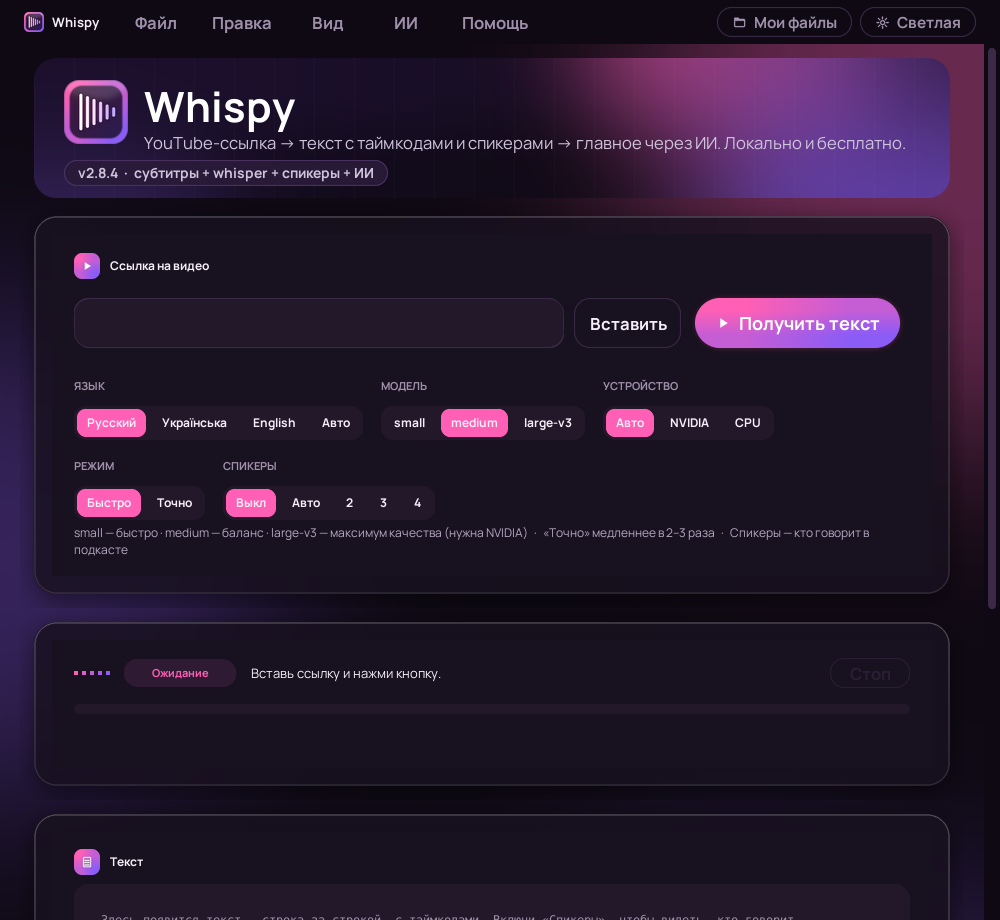
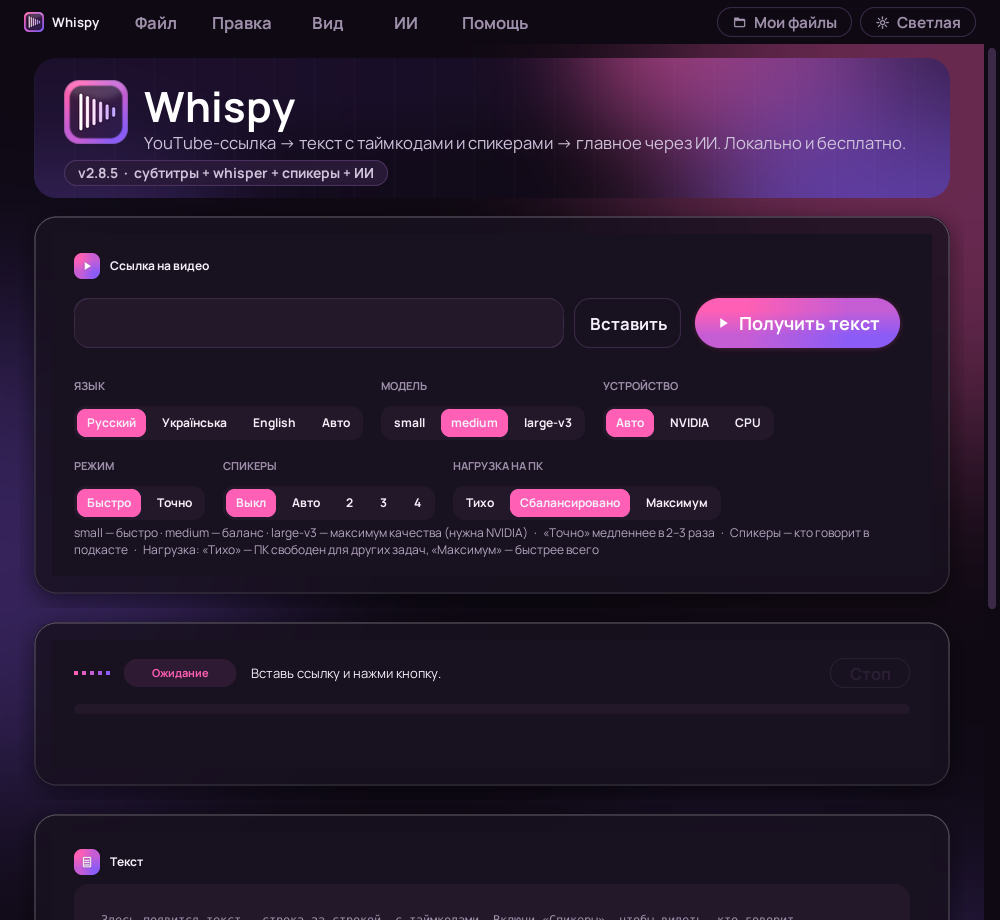
2.8.5: настройка нагрузки на ПК — потоки CPU и приоритет процесса на время распознавания
Claude-Session: https://claude.ai/code/session_01S2yJaERcb5RkzNkB8S1xRH

Changed region(s): [[0.155, 0.487, 0.682, 0.6087]]

diff --git a/app.py b/app.py
@@ -26,7 +26,7 @@ import urllib.request
 import tkinter as tk
 from tkinter import font as tkfont
 
-APP_VERSION = "2.8.4"
+APP_VERSION = "2.8.5"
 UPDATE_URL = "https://raw.githubusercontent.com/alegawhats-del/Whispy/main/version.json"
 GITHUB_URL = "https://github.com/alegawhats-del/Whispy"
 
@@ -144,6 +144,25 @@ LANGS = {"Русский": "ru", "Українська": "uk", "English": "en", 
 MODELS = ["small", "medium", "large-v3"]
 DEVICES = {"Авто": "auto", "NVIDIA": "gpu", "CPU": "cpu"}
 SPEED = {"Быстро": 1, "Точно": 5}
+# Нагрузка на ПК: (доля ядер, класс приоритета процесса Windows). Ниже приоритет — другие программы получают процессор первыми.
+LOAD = {"Тихо": (0.5, 0x00000040), "Сбалансировано": (0.85, 0x00004000), "Максимум": (1.0, 0x00000020)}  # IDLE / BELOW_NORMAL / NORMAL
+
+
+def cpu_threads_for(load):
+    frac = LOAD.get(load, LOAD["Сбалансировано"])[0]
+    n = os.cpu_count() or 4
+    return max(1, min(n, int(n * frac) if frac < 1 else n) - (1 if load == "Сбалансировано" else 0))
+
+
+def set_process_priority(load):
+    """Приоритет всего процесса на время работы: Windows отдаёт процессор другим задачам в первую очередь."""
+    if sys.platform != "win32":
+        return
+    try:
+        k32 = ctypes.windll.kernel32
+        k32.SetPriorityClass(k32.GetCurrentProcess(), LOAD.get(load, LOAD["Сбалансировано"])[1])
+    except Exception:
+        pass
 SPEAKERS = {"Выкл": -1, "Авто": 0, "2": 2, "3": 3, "4": 4}
 AI_TYPES = ["Тезисы", "Таблица", "Блок-схема", "Презентация", "Инфографика"]
 # Провайдеры ИИ: (протокол, адрес, модель по умолчанию, нужен ли ключ, ссылка где взять ключ)
@@ -1977,12 +1996,12 @@ class Cancelled(Exception):
 
 
 class Worker(threading.Thread):
-    def __init__(self, app, url, lang, model_name, device_choice, beam, speakers, gen):
+    def __init__(self, app, url, lang, model_name, device_choice, beam, speakers, gen, load="Сбалансировано"):
         super().__init__(daemon=True)
         self.app = app
         self.q = app.q
         self.url, self.lang, self.model_name, self.device_choice = url, lang, model_name, device_choice
-        self.beam, self.speakers, self.gen = beam, speakers, gen
+        self.beam, self.speakers, self.gen, self.load = beam, speakers, gen, load
         self.cancel = threading.Event()
         self.lines = []  # [start, end, text, (speaker)]
 
@@ -2058,6 +2077,7 @@ class Worker(threading.Thread):
             self.status("Ошибка", "Что-то пошло не так.")
             self.emit("error", text=human_error(e))
         finally:
+            set_process_priority("Максимум")  # вернуть обычный приоритет процессу
             if audio_path:
                 try:
                     os.remove(audio_path)
@@ -2193,7 +2213,8 @@ class Worker(threading.Thread):
         dev_name = "NVIDIA" if device == "cuda" else "CPU"
         self.status("Модель", f"Загружаю {self.model_name} ({dev_name})…" + ("" if model_cached(self.model_name) else " первый раз скачивается"))
         self.emit("indeterminate", on=True)
-        threads = max(1, (os.cpu_count() or 4))
+        threads = cpu_threads_for(self.load)
+        set_process_priority(self.load)
         try:
             model = WhisperModel(self.model_name, device=device, compute_type=compute, download_root=MODELS_DIR, cpu_threads=threads)
         except Exception as e:  # noqa: BLE001
@@ -2244,7 +2265,7 @@ class Worker(threading.Thread):
         import sherpa_onnx
         from faster_whisper.audio import decode_audio
         wav = decode_audio(audio_path, sampling_rate=16000)
-        cfg = sherpa_onnx.SpeakerEmbeddingExtractorConfig(model=SPK_MODEL_PATH, num_threads=max(1, (os.cpu_count() or 4) // 2), provider="cpu")
+        cfg = sherpa_onnx.SpeakerEmbeddingExtractorConfig(model=SPK_MODEL_PATH, num_threads=max(1, cpu_threads_for(self.load) // 2 + 1), provider="cpu")
         ext = sherpa_onnx.SpeakerEmbeddingExtractor(cfg)
         embs = []
         n = len(self.lines)
@@ -2621,9 +2642,10 @@ class App(ctk.CTk):
         self.model_var = tk.StringVar(value=self.settings.get("model", "medium"))
         self.device_var = tk.StringVar(value=self.settings.get("device", "Авто"))
         self.speed_var = tk.StringVar(value=self.settings.get("speed", "Быстро"))
+        self.load_var = tk.StringVar(value=self.settings.get("load", "Сбалансировано"))
         self.spk_var = tk.StringVar(value=self.settings.get("speakers", "Выкл"))
         self.ai_var = tk.StringVar(value=self.settings.get("ai_type", "Тезисы"))
-        for v in (self.lang_var, self.model_var, self.device_var, self.speed_var, self.spk_var, self.ai_var):
+        for v in (self.lang_var, self.model_var, self.device_var, self.speed_var, self.spk_var, self.ai_var, self.load_var):
             v.trace_add("write", lambda *a: self.persist())
         self._chips = {}
         self.ai_cfg = self.settings.get("ai", {}) or {}
@@ -2779,7 +2801,7 @@ class App(ctk.CTk):
 
     def persist(self):
         self.settings.update({"theme": self.theme, "lang": self.lang_var.get(), "model": self.model_var.get(),
-                              "device": self.device_var.get(), "speed": self.speed_var.get(), "speakers": self.spk_var.get(),
+                              "device": self.device_var.get(), "speed": self.speed_var.get(), "speakers": self.spk_var.get(), "load": self.load_var.get(),
                               "ai_type": self.ai_var.get(), "ai": self.ai_cfg})
         self.settings.pop("api_key", None)
         try:
@@ -2996,13 +3018,14 @@ class App(ctk.CTk):
         opts.grid(row=2, column=0, sticky="ew", padx=22, pady=(14, 4))
         for label, var, values in [("ЯЗЫК", self.lang_var, list(LANGS.keys())), ("МОДЕЛЬ", self.model_var, MODELS),
                                    ("УСТРОЙСТВО", self.device_var, list(DEVICES.keys())), ("РЕЖИМ", self.speed_var, list(SPEED.keys())),
-                                   ("СПИКЕРЫ", self.spk_var, list(SPEAKERS.keys()))]:
+                                   ("СПИКЕРЫ", self.spk_var, list(SPEAKERS.keys())), ("НАГРУЗКА НА ПК", self.load_var, list(LOAD.keys()))]:
             box = ctk.CTkFrame(opts, fg_color="transparent")
             self.label(box, label).pack(anchor="w", pady=(0, 6))
             self.seg(box, values, var).pack(anchor="w")
             opts.add(box)
         self.hint(card, "small — быстро · medium — баланс · large-v3 — максимум качества (нужна NVIDIA)   ·   "
-                        "«Точно» медленнее в 2–3 раза   ·   Спикеры — кто говорит в подкасте",
+                        "«Точно» медленнее в 2–3 раза   ·   Спикеры — кто говорит в подкасте   ·   "
+                        "Нагрузка: «Тихо» — ПК свободен для других задач, «Максимум» — быстрее всего",
                   row=3, column=0, sticky="ew", padx=22, pady=(0, 18))
 
         prog = self.page.add(GlassCard(self.page)).body
@@ -3280,7 +3303,7 @@ class App(ctk.CTk):
         self.status_lbl.configure(text="Подключаюсь к YouTube…", text_color=T["TEXT"])
         self.gen += 1
         self.worker = Worker(self, url, LANGS[self.lang_var.get()], self.model_var.get(), DEVICES[self.device_var.get()],
-                             SPEED[self.speed_var.get()], SPEAKERS[self.spk_var.get()], self.gen)
+                             SPEED[self.speed_var.get()], SPEAKERS[self.spk_var.get()], self.gen, load=self.load_var.get())
         self.worker.start()
         self.refresh_buttons()
 

diff --git a/NOTES.md b/NOTES.md
@@ -1,3 +1,2 @@
-• Исправлен сбой при включении своей рамки: внутри оконной процедуры больше нет вызовов интерфейса. Своя рамка теперь выключена по умолчанию и помечена как экспериментальная (Вид → «Своя рамка окна»)
-• Родная полоска окна окрашена в цвет приложения на Windows 11 (заголовок, текст, обводка, скруглённые углы)
-• Оптимизация: анимация шапки 15 к/с и только пока шапка на экране; ресайз без пересчёта раскладки на каждом пикселе
+• Настройка «Нагрузка на ПК»: Тихо (половина ядер, низкий приоритет — компьютер свободен для других задач) / Сбалансировано (по умолчанию, все ядра кроме одного, приоритет ниже обычного) / Максимум (все ядра)
+• На время распознавания приоритет процесса понижается — другие программы получают процессор первыми; после — возвращается
